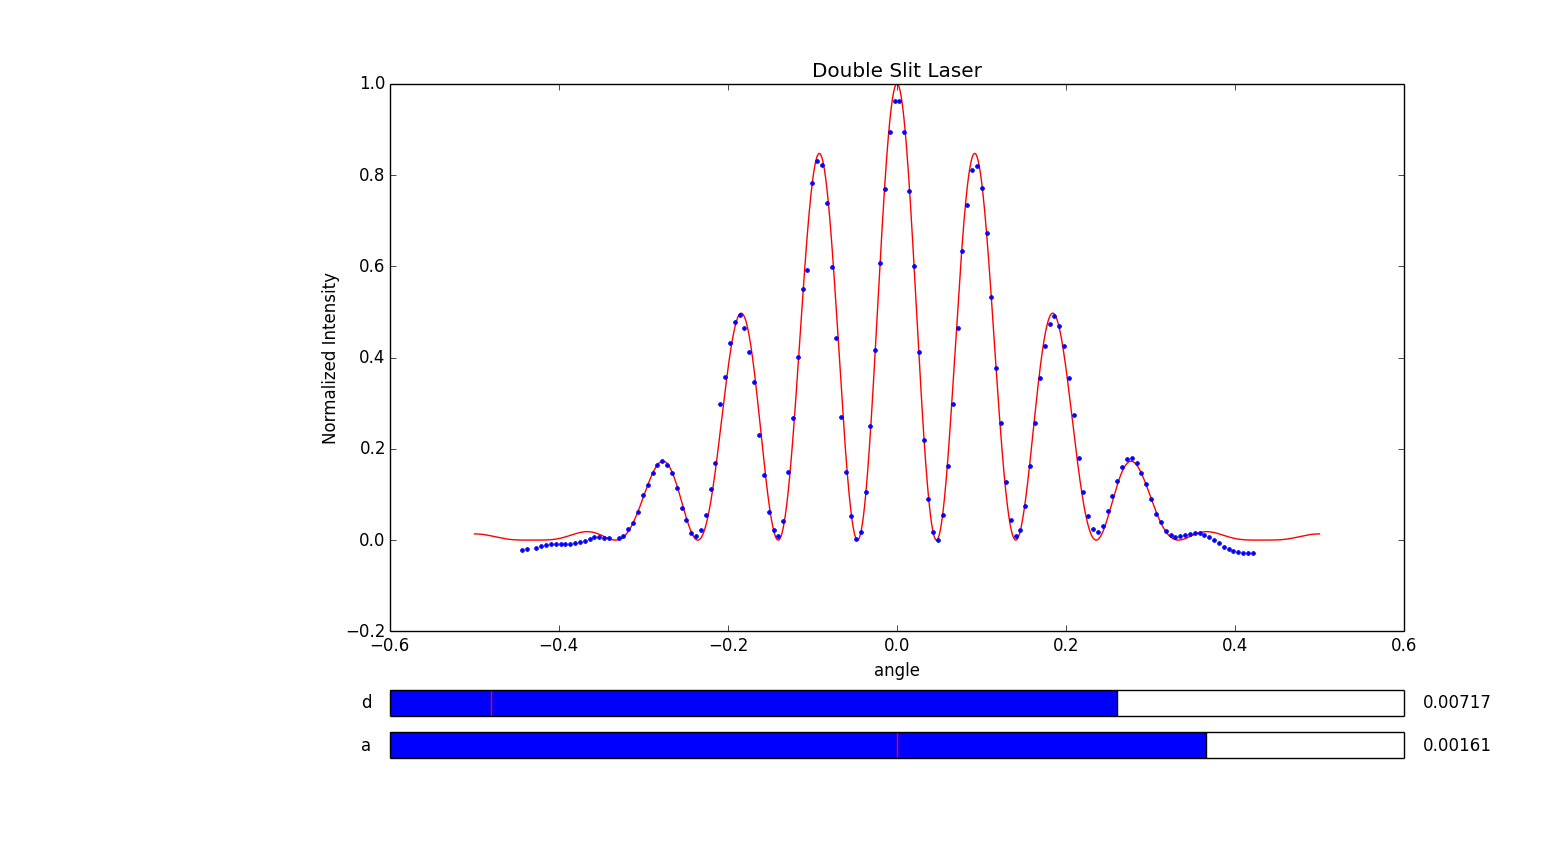
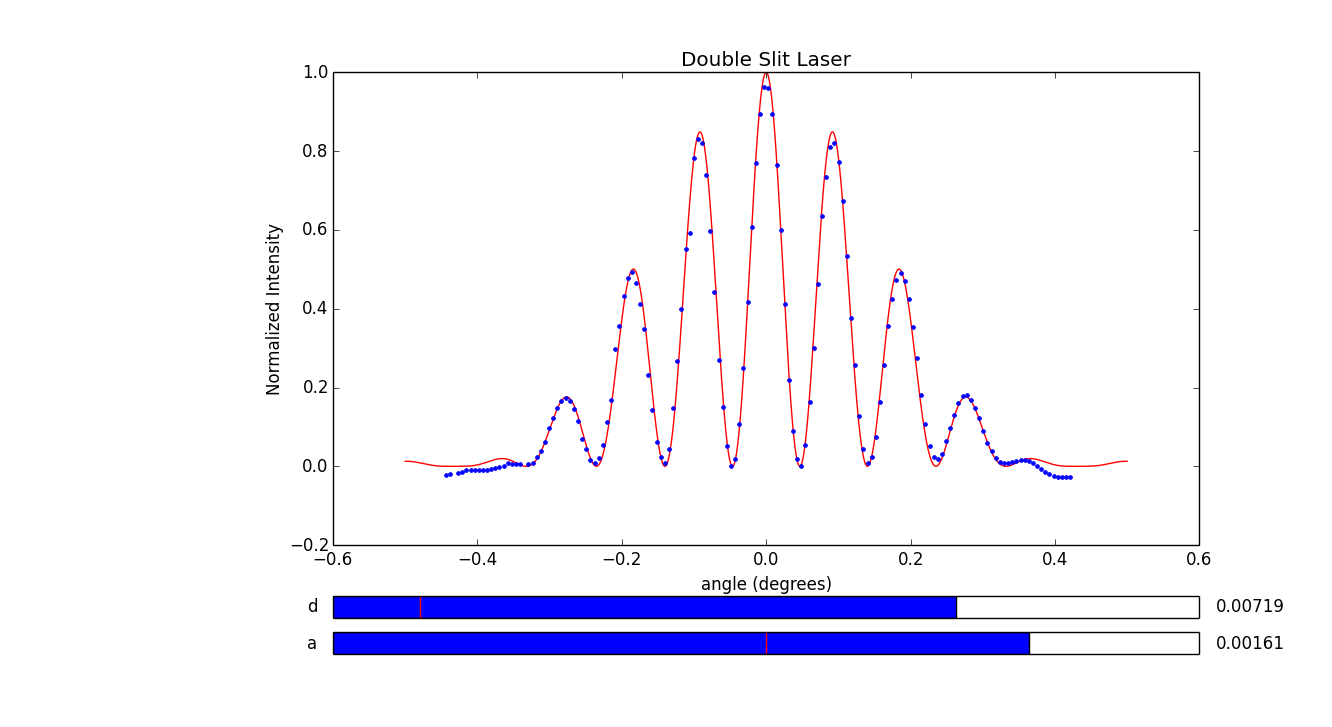
DSFIT once more

diff --git a/Double_Slit/InteractiveDemo.py b/Double_Slit/InteractiveDemo.py
@@ -26,7 +26,7 @@ position = np.degrees((DSLaser[0]-4.875)/500)
 intensity = (DSLaser[1]-36)/(np.max(DSLaser[1]))
 plt.plot(position,intensity, 'b.')
 
-plt.xlabel('angle')
+plt.xlabel('angle (degrees)')
 plt.ylabel('Normalized Intensity')
 plt.title('Double Slit Laser')
 
